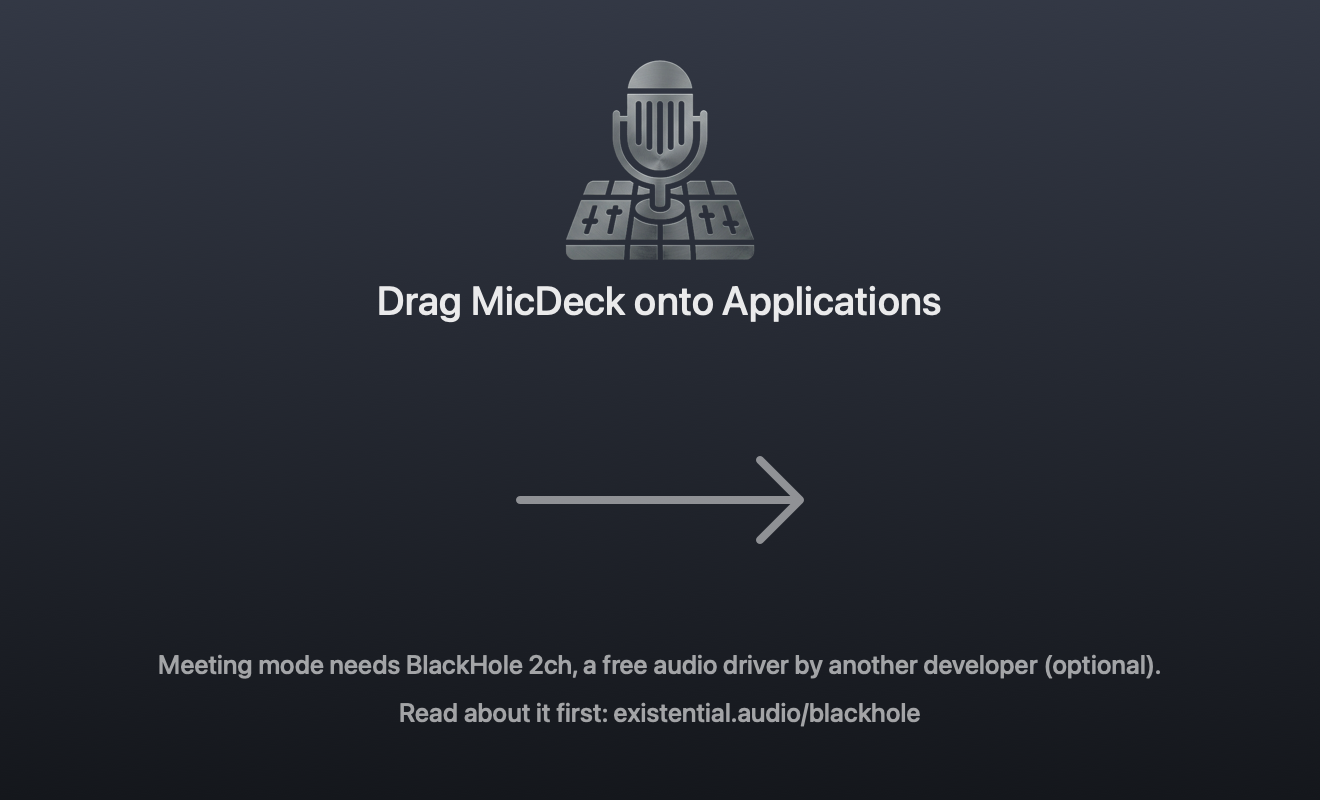
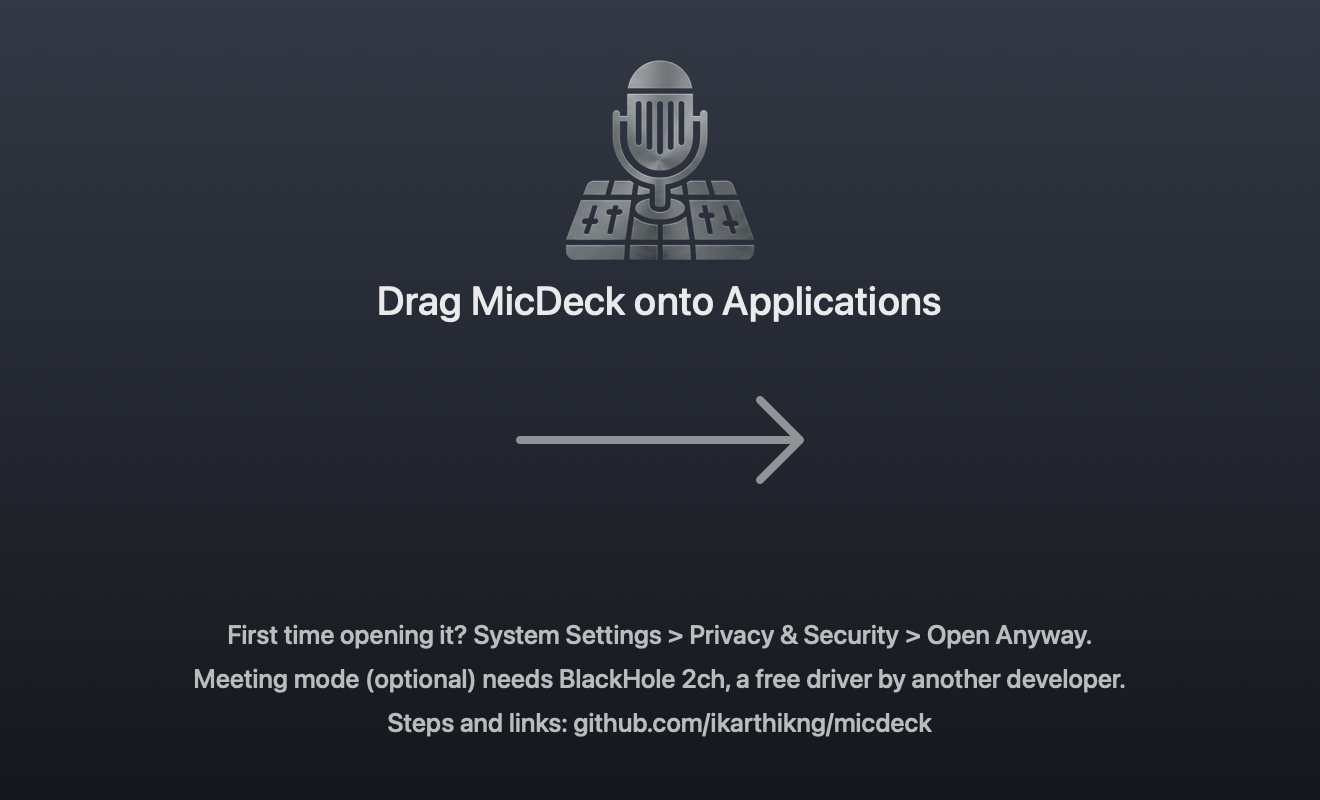
dmg: drop the read-me file; put the message on the background and fix the layout

Changed region(s): [[0.1242, 0.7812, 0.8697, 0.9375], [0.3727, 0.5, 0.6212, 0.6875]]

diff --git a/tools/make_icon.swift b/tools/make_icon.swift
@@ -81,13 +81,14 @@ png("app/Resources/dmg-background.png", 1320, 800) {
             .font: NSFont.systemFont(ofSize: size, weight: .medium), .foregroundColor: NSColor.white.withAlphaComponent(alpha), .paragraphStyle: centered])
     }
     text("Drag MicDeck onto Applications", size: 40, alpha: 0.9, y: 460)
-    // The two icons sit at (330, 250) and (990, 250) in this picture; the arrow goes between them.
+    // The two icons (96 pt) sit at (330, 360) and (990, 360) in this picture (bottom-up pixels); the arrow goes between them.
     let arrow = NSBezierPath(); arrow.lineWidth = 8; arrow.lineCapStyle = .round; arrow.lineJoinStyle = .round
-    arrow.move(to: NSPoint(x: 520, y: 300)); arrow.line(to: NSPoint(x: 800, y: 300))
-    arrow.move(to: NSPoint(x: 760, y: 340)); arrow.line(to: NSPoint(x: 800, y: 300)); arrow.line(to: NSPoint(x: 760, y: 260))
+    arrow.move(to: NSPoint(x: 520, y: 360)); arrow.line(to: NSPoint(x: 800, y: 360))
+    arrow.move(to: NSPoint(x: 760, y: 400)); arrow.line(to: NSPoint(x: 800, y: 360)); arrow.line(to: NSPoint(x: 760, y: 320))
     NSColor.white.withAlphaComponent(0.5).setStroke(); arrow.stroke()
-    text("Meeting mode needs BlackHole 2ch, a free audio driver by another developer (optional).", size: 26, alpha: 0.6, y: 110)
-    text("Read about it first: existential.audio/blackhole", size: 26, alpha: 0.6, y: 62)
+    text("First time opening it? System Settings > Privacy & Security > Open Anyway.", size: 26, alpha: 0.7, y: 140)
+    text("Meeting mode (optional) needs BlackHole 2ch, a free driver by another developer.", size: 26, alpha: 0.7, y: 96)
+    text("Steps and links: github.com/ikarthikng/micdeck", size: 26, alpha: 0.7, y: 52)
 }
 
 // 5. GitHub's social preview (1280x640), shown when the repo link is shared. Upload it by hand in the repo's

diff --git a/CLAUDE.md b/CLAUDE.md
@@ -85,8 +85,8 @@ At start-up NGENUITY also sends a query before streaming: SET_REPORT `04 58 00 .
 - With Meeting mode off, the user picks the raw mic in their meeting app; mute indicator and lights keep working from the app.
 - Order: (1) `ffi/` crate [done on feature/ffi-library], (2) Swift menu-bar skeleton with mute indicator + lights, (3) meeting toggle, strength slider, mic chooser, (4) build script for `.app` and `.dmg` + README with Gatekeeper steps (put a short "read me first" text file in the .dmg that says Meeting mode needs BlackHole and links its website and GitHub page; the user decides whether to install it), (5) README and BlackHole docs. Later: mic choice for other mics (AirPods need resampling to 48 kHz).
 
-- Artwork: `tools/make_icon.swift` builds everything from `app/Resources/source/logo-reference.jpg` (the owner's metallic mic-on-deck logo): `app/Resources/AppIcon.png` (+ `AppIcon.icns`, made with `sips` + `iconutil` into an .iconset), `app/Sources/MicDeck/Resources/MenuBarIcon.png` (one-colour silhouette, used by `menuBarIcon` in MicDeckApp.swift, with a slash drawn in code when muted) and `app/Resources/dmg-background.png` (1320x800 = 660x400 pt at 2x, text says drag to Applications and that Meeting mode needs BlackHole). The build script must: copy the .icns into the .app (Info.plist `CFBundleIconFile`), copy the SwiftPM resource bundle `MicDeck_MicDeck.bundle` into Contents/Resources, and use the dmg background (arrow drawn at y=300 of 800, icons at x=330 and x=990 in px of the 1320 wide picture).
+- Artwork: `tools/make_icon.swift` builds everything from `app/Resources/source/logo-reference.jpg` (the owner's metallic mic-on-deck logo): `app/Resources/AppIcon.png` (+ `AppIcon.icns`, made with `sips` + `iconutil` into an .iconset), `app/Sources/MicDeck/Resources/MenuBarIcon.png` (one-colour silhouette, used by `menuBarIcon` in MicDeckApp.swift, with a slash drawn in code when muted) and `app/Resources/dmg-background.png` (1320x800 = 660x400 pt at 2x, text says drag to Applications and that Meeting mode needs BlackHole). The build script must: copy the .icns into the .app (Info.plist `CFBundleIconFile`), copy the SwiftPM resource bundle `MicDeck_MicDeck.bundle` into Contents/Resources, and use the dmg background (icons 96 pt at x=165 and x=495, y=220 in points; the picture is combined 1x+2x into a TIFF).
 
 ## Next step
-`tools/build_dmg.sh` builds `dist/MicDeck.app` (Info.plist written by the script: LSUIElement, mic usage text, bundle id io.github.ikarthikng.micdeck; ad-hoc signed) and `dist/MicDeck-<version>-arm64.dmg` (styled with the background, Applications link, `READ ME FIRST.txt` from `app/Resources/dmg-readme.txt`; Finder is scripted with osascript, which may need Automation permission for the terminal). Next: upload the .dmg to a GitHub release, then CI to build it. Meeting mode feedback from a real call (owner, Oct 2026): good overall, but a vacuum cleaner (loud steady noise) was only partly removed; idea for later: a stronger steady-noise filter or a separate noise-reduction control.
+`tools/build_dmg.sh` builds `dist/MicDeck.app` (Info.plist written by the script: LSUIElement, mic usage text, bundle id io.github.ikarthikng.micdeck; ad-hoc signed) and `dist/MicDeck-<version>-arm64.dmg` (styled with the background, Applications link, no separate read-me file: the background text points to the GitHub README; Finder is scripted with osascript, which may need Automation permission for the terminal). Next: upload the .dmg to a GitHub release, then CI to build it. Meeting mode feedback from a real call (owner, Oct 2026): good overall, but a vacuum cleaner (loud steady noise) was only partly removed; idea for later: a stronger steady-noise filter or a separate noise-reduction control.
 Finish `ffi/`, then the Swift menu-bar app. Smaller later items: save a default light in the settings file, a driver template + contributor guide.

diff --git a/README.md b/README.md
@@ -9,7 +9,7 @@
 ## Install
 1. Download **MicDeck-x.y.z-arm64.dmg** from the [latest release](https://github.com/ikarthikng/micdeck/releases/latest) (Apple Silicon Macs only).
 2. Open it and drag **MicDeck** onto **Applications**.
-3. Open MicDeck from Applications. macOS blocks apps that are not signed with a paid Apple developer account, so the first time go to **System Settings > Privacy & Security**, scroll down and click **Open Anyway** next to MicDeck. You only do this once. The `READ ME FIRST.txt` inside the .dmg has the same steps.
+3. Open MicDeck from Applications. macOS blocks apps that are not signed with a paid Apple developer account, so the first time go to **System Settings > Privacy & Security**, scroll down and click **Open Anyway** next to MicDeck. You only do this once.
 4. Look for the MicDeck icon in the menu bar (top right of the screen).
 
 Want Meeting mode? Read [Requirements](#requirements) first: it needs a free extra app, BlackHole 2ch.
@@ -64,7 +64,7 @@ cd app && swift build                    # or open app/Package.swift in Xcode an
 
 Look for the MicDeck icon in the menu bar.
 
-To build the installer yourself, run `tools/build_dmg.sh`. It makes `dist/MicDeck-<version>-arm64.dmg` (Apple Silicon, ad-hoc signed). macOS asks you to confirm once when opening an app that is not signed with a paid Apple account; the `READ ME FIRST.txt` inside the .dmg explains how (System Settings > Privacy & Security > Open Anyway).
+To build the installer yourself, run `tools/build_dmg.sh`. It makes `dist/MicDeck-<version>-arm64.dmg` (Apple Silicon, ad-hoc signed). macOS asks you to confirm once when opening an app that is not signed with a paid Apple account; see Install above (System Settings > Privacy & Security > Open Anyway).
 
 ## Command line
 The same features are available without the app. Build with `cargo build` and run `cargo run -p micdeck -- <command>`:
